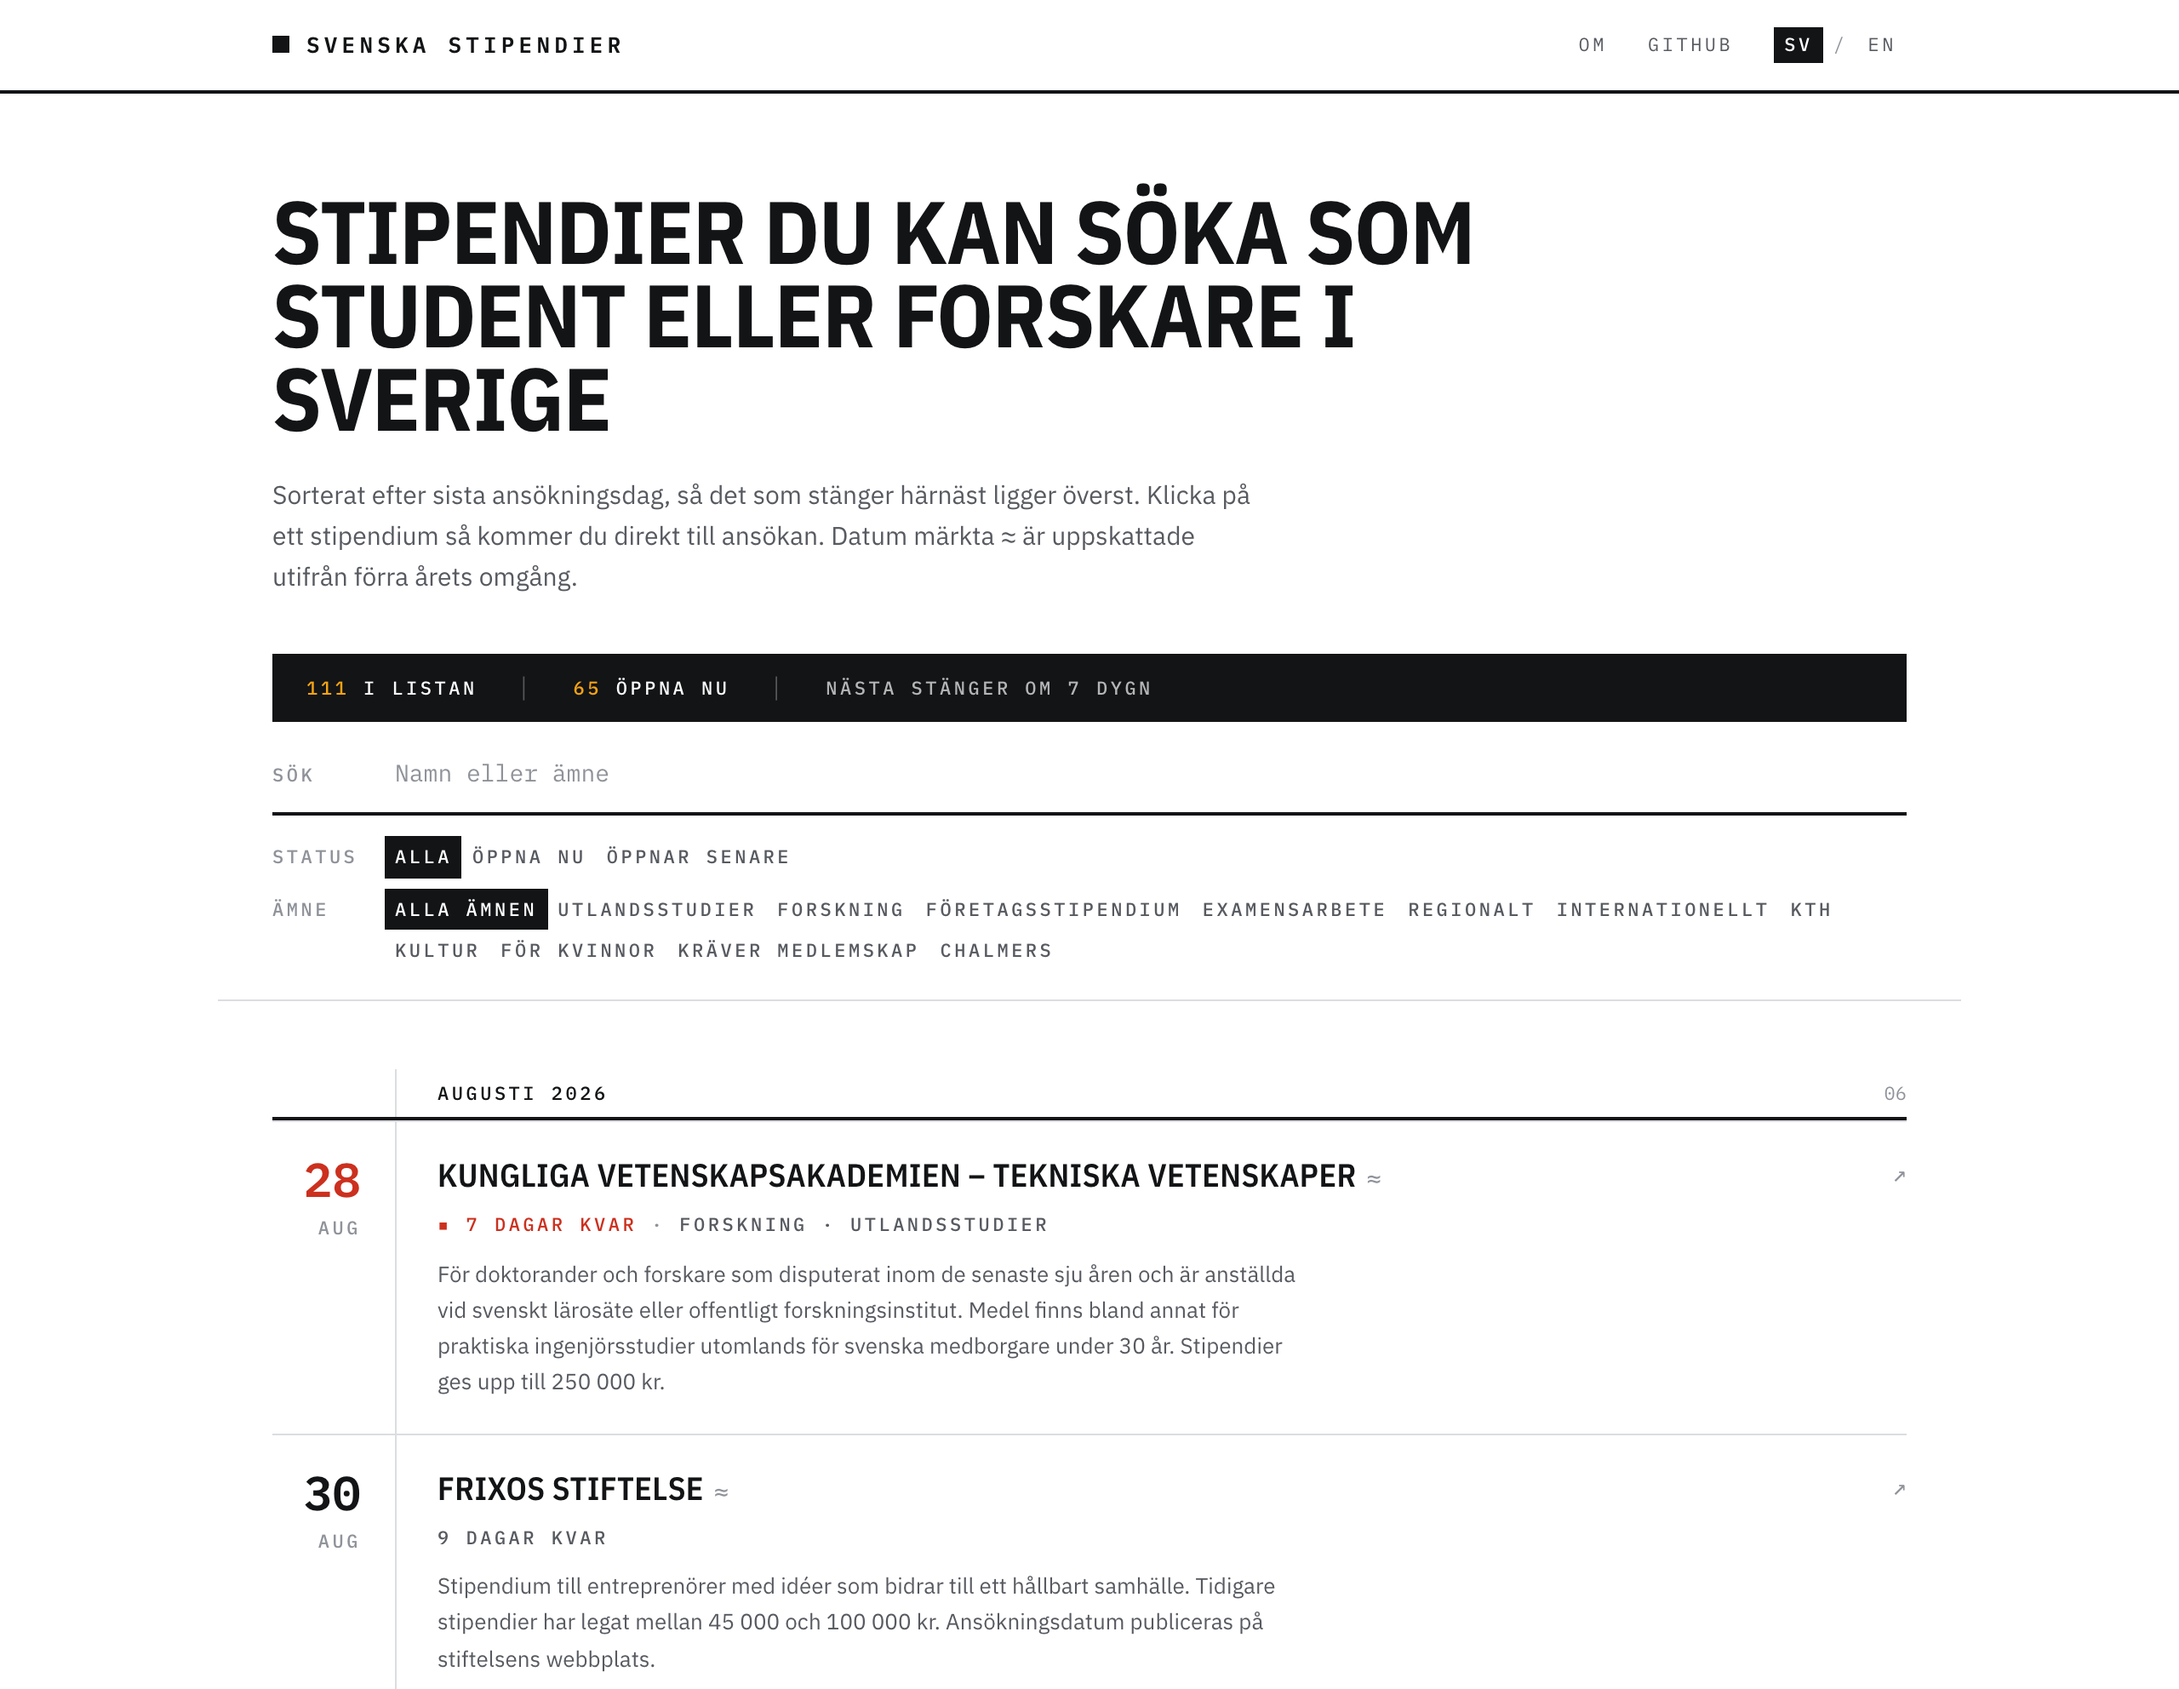
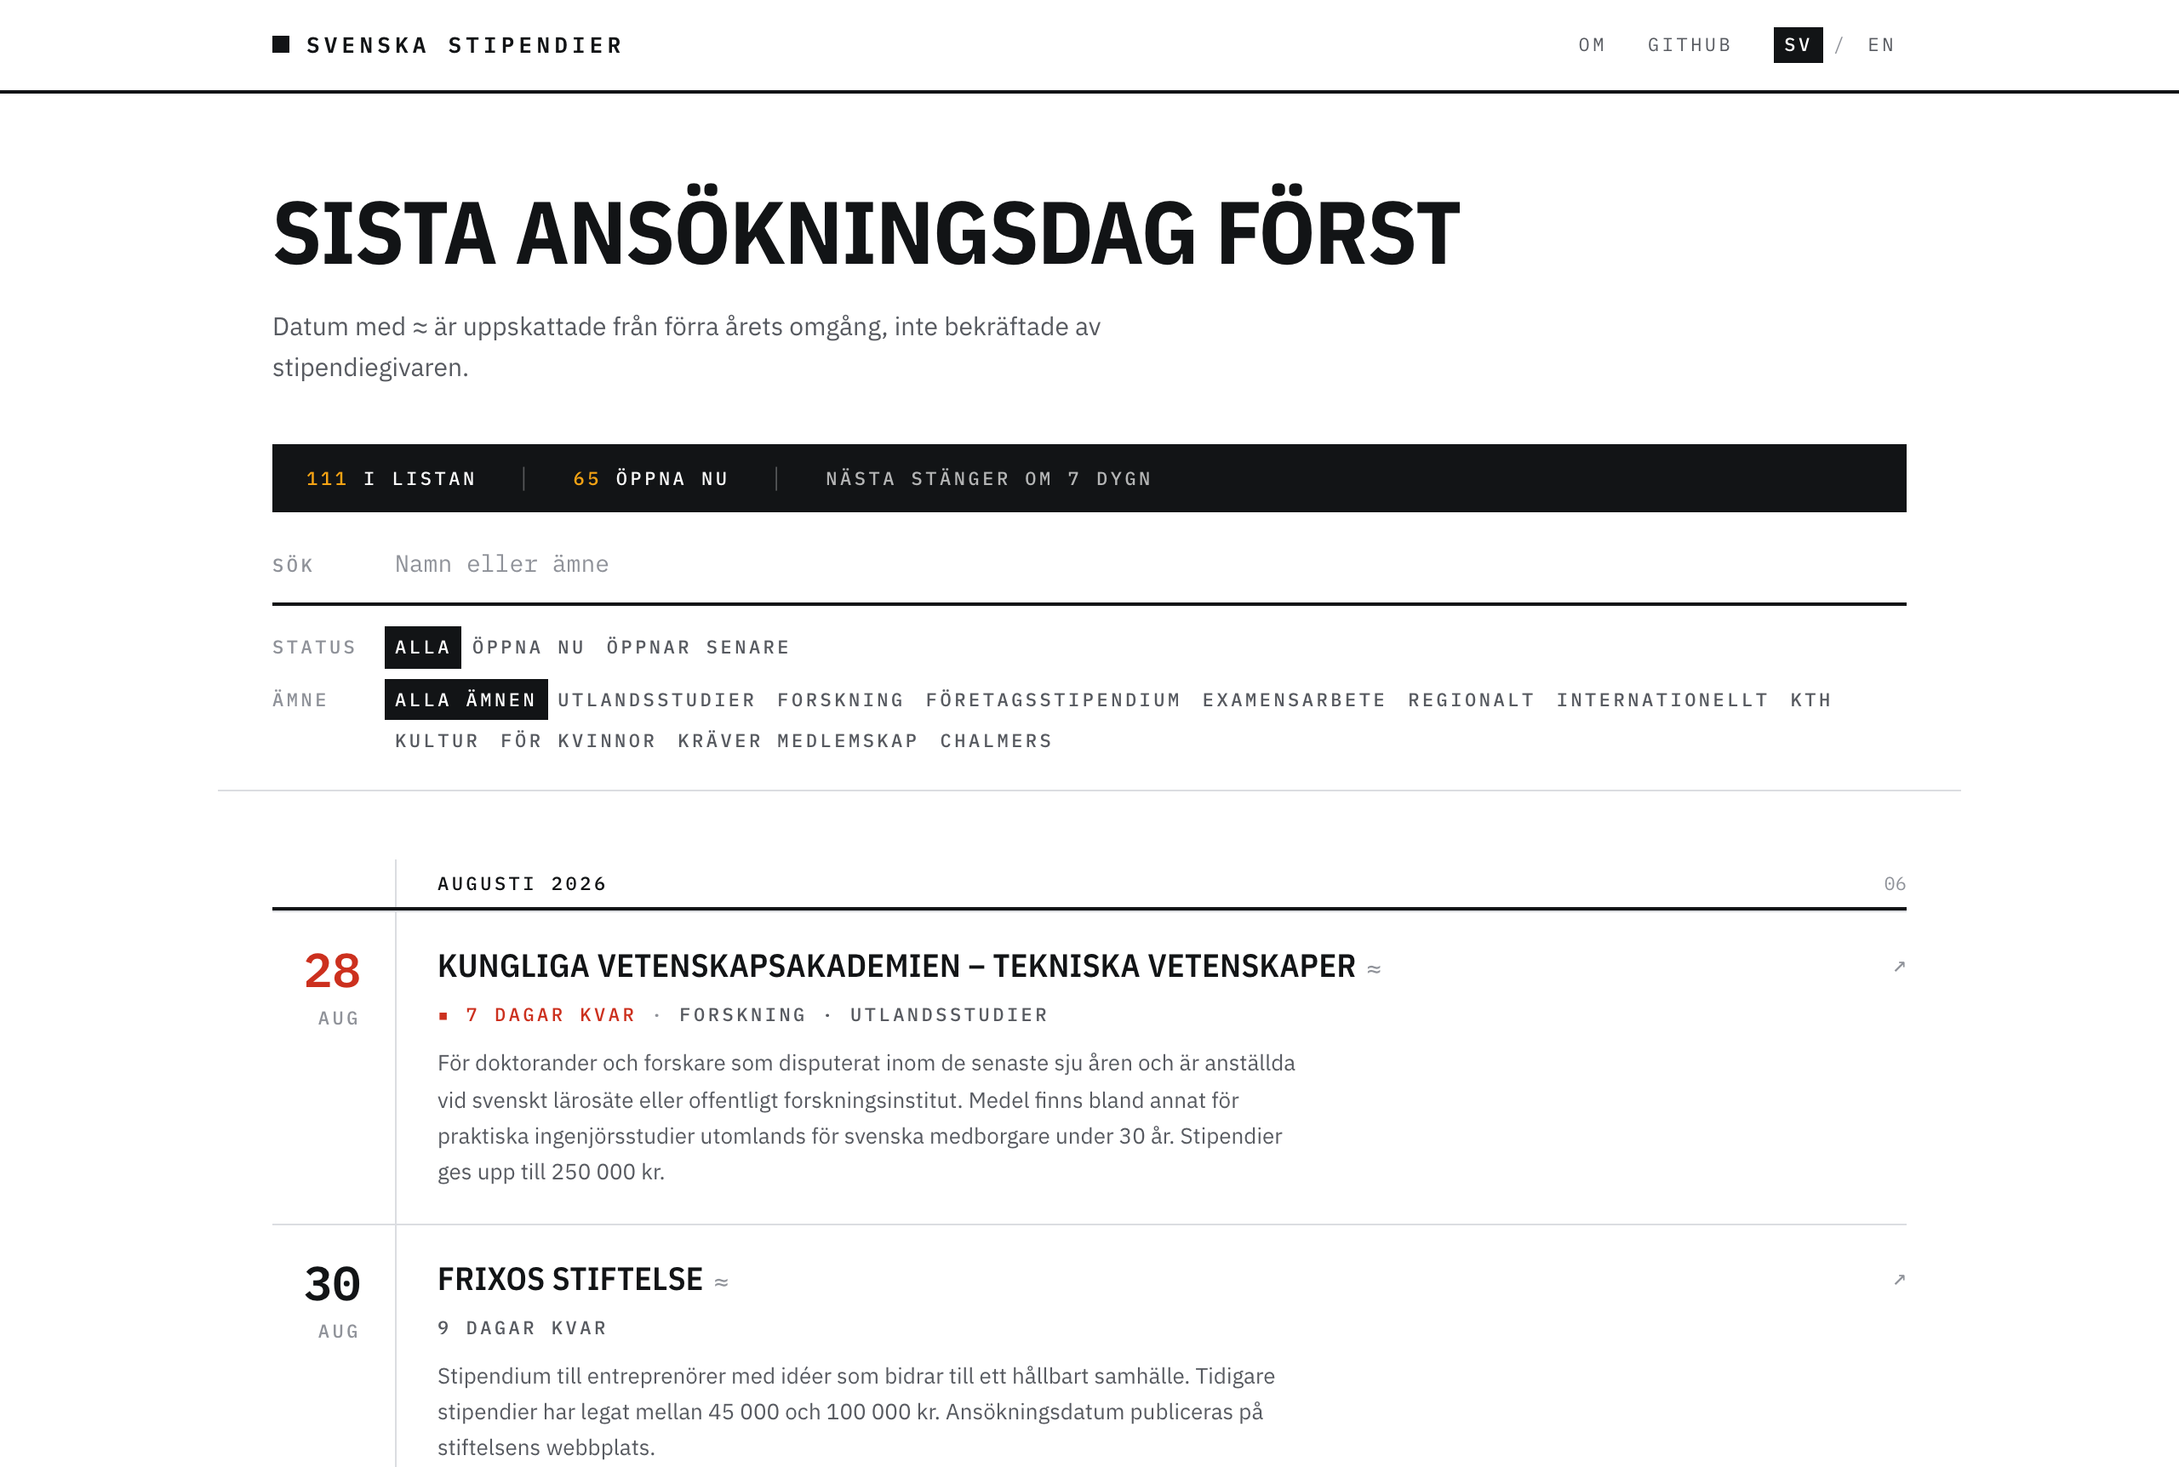
Stop the home page explaining itself
The headline recited who the site is for and the standfirst explained
that the list is sorted by deadline and that clicking a row opens the
application. Both are things the page already shows, and writing them
out is what gives copy away as machine-written.

The board now labels itself, "Sista ansökningsdag först", and the line
under it keeps only what a reader cannot see: that a date marked ≈ is
our projection rather than the awarding body's word. The footer
disclaimer loses the same tone. Screenshots retaken.

diff --git a/src/lib/i18n.ts b/src/lib/i18n.ts
@@ -14,9 +14,9 @@ export const translations = {
       closeMenu: "Stäng meny",
     },
     directory: {
-      tagline: "Stipendier du kan söka som student eller forskare i Sverige",
+      tagline: "Sista ansökningsdag först",
       standfirst:
-        "Sorterat efter sista ansökningsdag, så det som stänger härnäst ligger överst. Klicka på ett stipendium så kommer du direkt till ansökan. Datum märkta ≈ är uppskattade utifrån förra årets omgång.",
+        "Datum med ≈ är uppskattade från förra årets omgång, inte bekräftade av stipendiegivaren.",
       searchPlaceholder: "Namn eller ämne",
       searchLabel: "Sök",
       searchAria: "Sök på namn eller ämne",
@@ -78,7 +78,7 @@ export const translations = {
     footer: {
       tagline: "En öppen lista över stipendier du kan söka i Sverige.",
       dataNote:
-        "Uppgifterna sköts av frivilliga och kan hinna bli inaktuella. Kolla alltid stipendiegivarens egen sida innan du söker.",
+        "Frivilliga sköter listan, så den hinner bli fel ibland. Kolla stipendiegivarens egen sida innan du söker.",
       sourceCode: "Källkod på GitHub",
       addScholarship: "Lägg till ett stipendium",
       license: "Data under CC BY 4.0, kod under MIT.",
@@ -103,9 +103,9 @@ export const translations = {
       closeMenu: "Close menu",
     },
     directory: {
-      tagline: "Scholarships you can apply for as a student or researcher in Sweden",
+      tagline: "Closest deadline first",
       standfirst:
-        "Ordered by deadline, so whatever closes next is at the top. Click a scholarship to go straight to the application. Dates marked ≈ are estimated from last year's round.",
+        "Dates marked ≈ are estimated from last year's round, not confirmed by the awarding body.",
       searchPlaceholder: "Name or subject",
       searchLabel: "Find",
       searchAria: "Search by name or subject",
@@ -167,7 +167,7 @@ export const translations = {
     footer: {
       tagline: "An open list of scholarships you can apply for in Sweden.",
       dataNote:
-        "The data is kept up by volunteers and can go out of date. Always check the awarding body's own page before you apply.",
+        "Volunteers keep the list, so it goes wrong sometimes. Check the awarding body's own page before you apply.",
       sourceCode: "Source on GitHub",
       addScholarship: "Add a scholarship",
       license: "Data under CC BY 4.0, code under MIT.",
